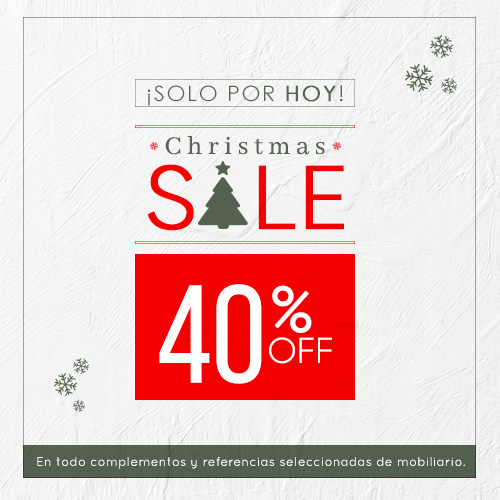
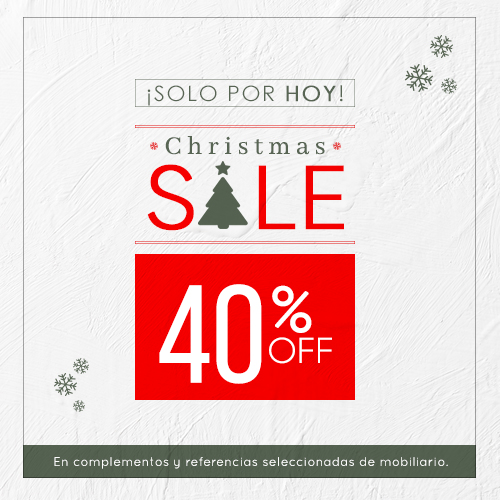
actualizacion img

Changed region(s): [[0.06, 0.9, 0.93, 0.93]]

diff --git a/client/src/app/components/header/top-banner/promocion/promocion.html b/client/src/app/components/header/top-banner/promocion/promocion.html
@@ -21,7 +21,7 @@
           <p class="title">SEGUNDOS</p>
         </div>
         <img src="assets/images/hot-sale/christmas-sale.png" alt="" class="hidden-xs">
-        <p class="tres hidden-sm hidden-xs">Todo complementos y referencias seleccionadas de mobiliario</p>
+        <p class="tres hidden-sm hidden-xs">En nuestra tienda complementos y referencias seleccionadas de mobiliario</p>
       </div>
     </div>
   </div>
